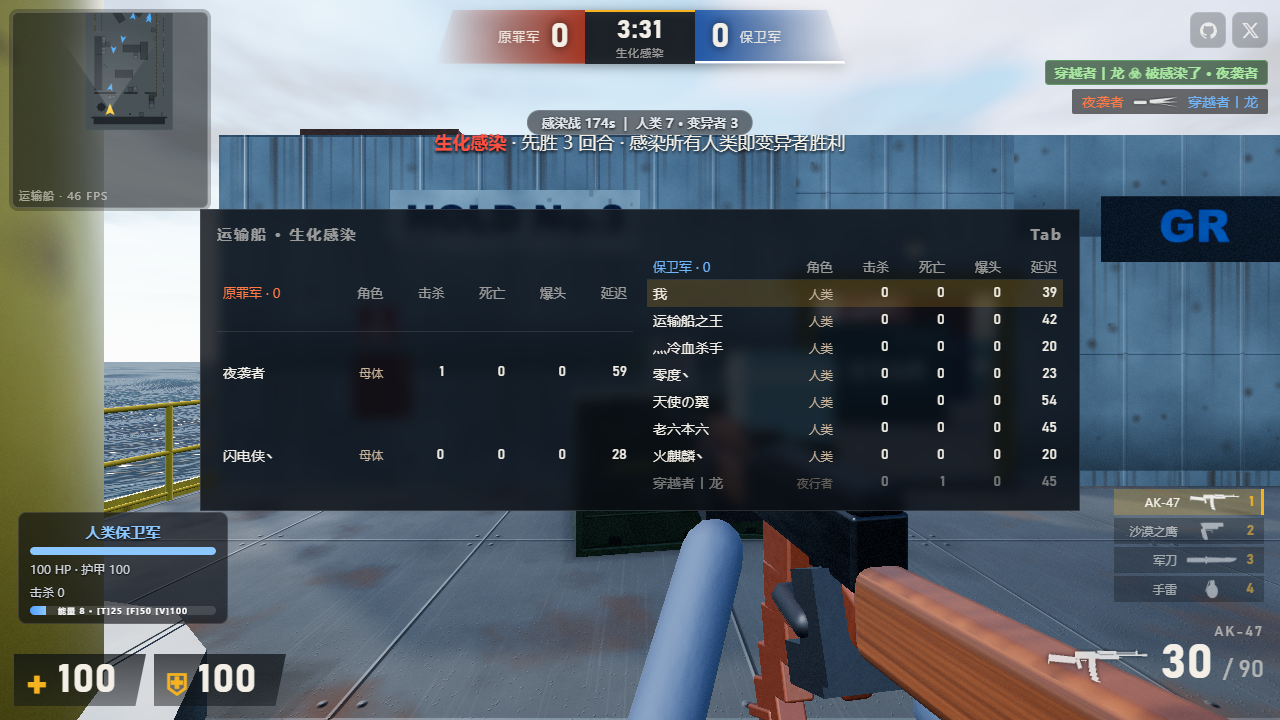
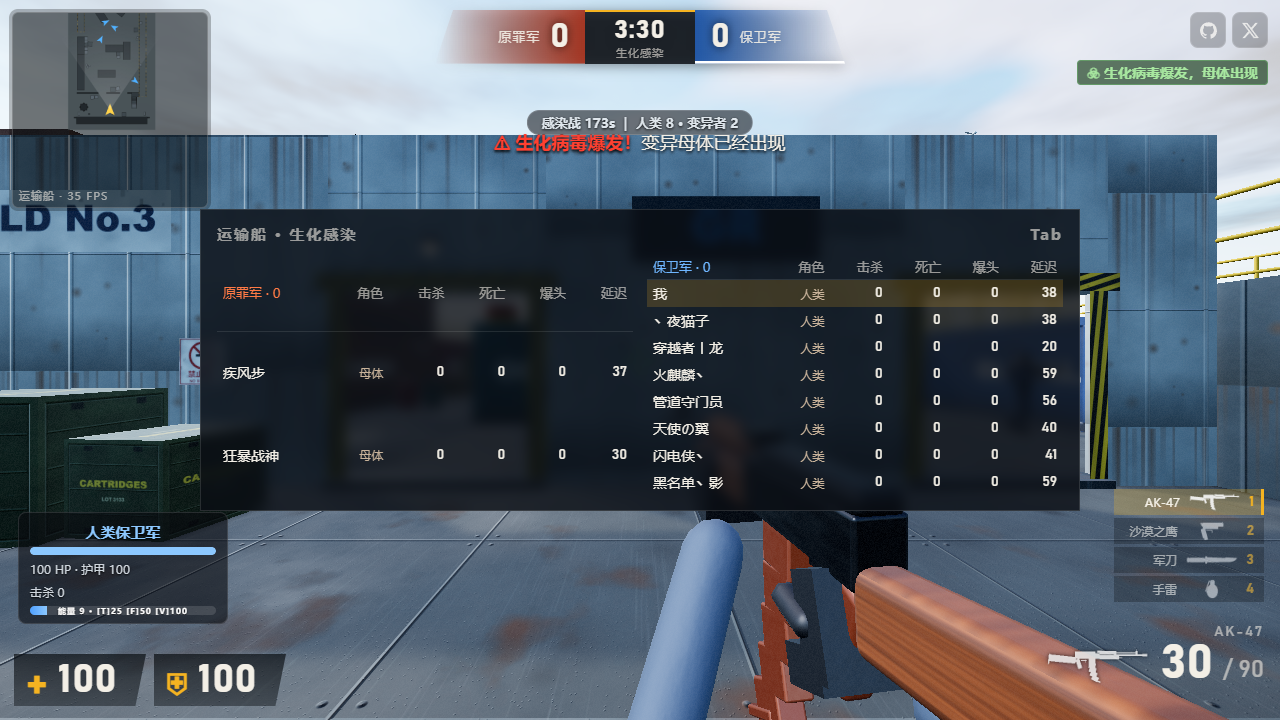
V93 感染模式精修：尸变演出（倒地冒黑雾1.2s→爬起，锁移速/禁出爪，母体与再变异豁免）+ 爆发全场警报播报；probe v67 新增10断言，全量回归通过

diff --git a/cf-transport-ship/src/woz/integrate.js b/cf-transport-ship/src/woz/integrate.js
@@ -741,6 +741,16 @@ export class WozManager {
       if (st.side === 'mutant' && st.alive && a.alive) st.hp = a.hp;
     }
     rules.tick(dt);
+    // V93 爆发播报（原作：购买期结束全场警报，母体现身）
+    if (rules.phase !== this._lastPhase) {
+      if (rules.phase === 'outbreak' && this.cat() === 'infection') {
+        g.hud.toast('<b style="color:#ff4030">⚠ 生化病毒爆发！</b>变异母体已经出现', 3);
+        g.hud.eventFeed('☣ 生化病毒爆发，母体出现', 'inf');
+        wozAudio.tide();
+        g.fx.shake = Math.max(g.fx.shake || 0, 0.4);
+      }
+      this._lastPhase = rules.phase;
+    }
     // 规则层治疗 → 引擎血量；同步移速与尸体状态
     for (let i = 0; i < rules.playerCount; i++) {
       const a = g.actors[i], st = rules.state(i);
@@ -757,6 +767,19 @@ export class WozManager {
         a.speedMul = rules.humanSpeedMultiplier(i);
       }
       if (a.alive && a.staggerT > 0) a.speedMul = (a.speedMul || 1) * 0.45; // 命中暂缓减速
+      // V93 尸变演出推进：转化期间锁移动；结束时爬起（复位动画+职业外观+低吼+黑雾爆散）
+      if (a.morphT > 0) {
+        a.morphT -= dt;
+        a.speedMul = 0;
+        if (Math.random() < 2.5 * dt) this.morphFog(a, 1);
+        if (a.morphT <= 0) {
+          a.morphT = 0;
+          if (!a.isPlayer) { a.soldier.reset(); a.soldier.setWeapon('claw'); }
+          this.applyClassVisual(a);
+          wozAudio.growl(a.isPlayer ? null : a.pos.clone());
+          this.morphFog(a, 6);
+        }
+      }
     }
     // V86 低血心跳：玩家 HP<30 动态开启心跳音（离开低血自动关闭）
     {
@@ -1564,6 +1587,8 @@ export class WozManager {
     }
     if (this.pendingConvert.has(a.id)) {
       this.pendingConvert.delete(a.id);
+      // V93 尸变演出：真实对局中战斗期的首次感染走此路径 → 标记起身后进入倒地→爬起演出
+      if (!st.isMother && st.rebirths === 0 && rules.phase === 'battle') a._morphRise = true;
       this.convertNow(a, true); // 原地变身（对齐原作：感染后在原地转化，不去复活点）
       return;
     }
@@ -1616,7 +1641,23 @@ export class WozManager {
       wozAudio.convert(a.pos.clone());
     } else wozAudio.convert(a.pos.clone());
     if ((a instanceof Bot) && !a.isZombie) toZombieAI(a);
-    wozAudio.growl(a.isPlayer ? null : a.pos.clone());
+    // V93 尸变演出（原作标志性瞬间）：战斗中被感染的子体不即时站起——保持倒地姿态
+    // 冒黑雾 1.2s 后爬起。母体（爆发落地）/再变异（复仇即时重生）不走此流程。
+    if (a._morphRise) {
+      a._morphRise = false;
+      a.morphT = WOZ.morphDuration;
+      if (!a.isPlayer) a.soldier.die(0, 1, false);
+      this.morphFog(a, 10);
+      if (a.isPlayer) g.hud.toast('<b style="color:#ff5040">尸变中…</b>病毒正在重塑你的身体', WOZ.morphDuration);
+    } else wozAudio.growl(a.isPlayer ? null : a.pos.clone());
+  }
+
+  // V93 尸变黑雾：感染者躯体周围升腾的暗色病毒雾
+  morphFog(a, n) {
+    const g = this.g;
+    for (let i = 0; i < n; i++) {
+      g.fx.smoke.emit({ x: a.pos.x + (Math.random() - 0.5) * 0.8, y: a.pos.y + 0.15 + Math.random() * 1.1, z: a.pos.z + (Math.random() - 0.5) * 0.8, vx: 0, vy: 0.5 + Math.random() * 0.4, vz: 0, life: 0, max: 1.2 + Math.random() * 0.5, s0: 0.12, s1: 0.5, r: 0.08, g: 0.08, b: 0.1, a0: 0.55, a1: 0, grav: -0.2, drag: 1.2 });
+    }
   }
 
   pickSpawn(team) {

diff --git a/cf-transport-ship/src/woz/config.js b/cf-transport-ship/src/woz/config.js
@@ -110,6 +110,7 @@ export const WOZ = {
   sorrowFrenzyHp: 300,      // 末分钟狂潮版血量（HP 低）
   sorrowFrenzyCount: 4,     // 狂潮只数
   disguiseReveal: 8,        // 混入伪装（V55）：人类 8m 内识破附身爬行者
+  morphDuration: 1.2,       // V93 尸变演出：战斗中被感染 → 倒地冒黑雾 → 爬起为变异者
   disguiseBreak: 3,         // 出爪后暴露时长
   frostHp: 450,             // 寒霜行者（V56 末日求生）：冰霜系 AI 特感
   frostChill: 0.72,         // 命中减速倍率

diff --git a/cf-transport-ship/src/game.js b/cf-transport-ship/src/game.js
@@ -560,6 +560,7 @@ export class Game {
     audio.playKnife('light', 'flesh', a.isPlayer ? null : eye);
   }
   melee(a, heavy) {
+    if (a.morphT > 0) return; // V93 尸变中不可出爪
     this.woz?.breakDisguise?.(a); // V55 伪装：出爪暴露
     const d = WEAPONS[a.weapon?.id] || WEAPONS.knife;
     const range = heavy ? d.rangeHeavy : d.rangeLight;

diff --git a/cf-transport-ship/WOZ_RESEARCH.md b/cf-transport-ship/WOZ_RESEARCH.md
@@ -124,3 +124,15 @@
 
 ### V73-V92 计划
 V73 猎食者视觉对齐（嗜血红皮+手持斧）；V74 疾冲残影拖尾（afterimage 克隆衰减）；V75 自爆地面红圈预警+滴滴声；V76 人类 T/F/V 技能特效（金光/金框/红边脉动）；V77 曳光弹接入开火+按武器分色；V78 后坐力曲线精调（AK/M4/SMG/狙）+准星 bloom 随 spread；V79 命中材质反馈分级（金属火花/砖灰/木屑+音调）；V80 手雷弹跳滚动+落地音+HE 爆闪；V81 燃烧瓶玻璃碎裂+着火者身上火苗；V82 冻结弹冰霜屏幕+冰晶；V83 毒气毒液体积烟雾+中毒绿边；V84 震撼弹白屏渐变曲线+耳鸣+黏性滴滴红灯；V85 近战挥砍弧光+命中停顿；V86 狙击开镜呼吸+栓动节奏；V87 变异者死亡消散+受击血雾分级；V88 空间音效+低血心跳；V89 粒子性能分级；V90 手感综合模拟；V91 文档收尾；V92 全量回归。
+
+## 九、逐模式精修迭代（2026-09-26 起，V93+，用户指令：每版只做一个模式）
+
+### 新来源（用户提供，2026-09-26 抓取成功）
+- 17173 2013-01-15《生化复仇解密》：复仇模式=人类获得特殊能量化身"复仇者"近身较量；**双阵营升级进化**——人类随时间和击杀获得速度/弹药/威力/必杀技，变异者获得防御/攻击/再次变异/特殊进化（视觉冲击力）；**人类最后的幸存者进化为复仇者**：手持极具杀伤力的电锯+超越人类体能极限的防御力，被包围时可原地旋转扫除一切近身敌人。
+- 17173 2013-01-14《生化对抗解密》：对抗模式特色地图**死亡城市**（浓雾+废弃城市街道）；人类=攻击方要尽可能多占领战术据点，变异者=防守方阻止；报废车辆/散落集装箱路障做掩体，变异者借雾接近；**占领进度越深，越来越多的变异者源源不断突破浓雾封锁进攻**（增援与占点进度挂钩）。
+
+### V93 感染模式精修（2026-09-26）
+- **尸变演出**（原作标志性瞬间）：战斗中被感染的子体不再即时站起——保持倒地姿态，躯体冒黑雾 1.2s（morphDuration），期间移速锁 0、出爪被拦截；结束后复位动画+职业外观+低吼+黑雾爆散爬起。母体（爆发落地）与复仇再变异（即时重生）不走此流程。实现：`a.morphT` 状态 + convertNow 启动 + 同步循环推进 + game.melee 顶部拦截 + morphFog 粒子。
+- **爆发播报**：感染模式购买期结束进入 outbreak 时全场警报——大字 toast「⚠ 生化病毒爆发！变异母体已经出现」+ 事件流 + tide 音效 + 震屏（_lastPhase 相变检测）。
+- 回归：rules 83 + e2e 41 + smoke + probes v1~v66 不变，新增 v67（10 断言：morphT 起止/移速锁定/出爪拦截/持爪/阵营/母体豁免/爆发播报）。
+- 已核对原作细节并维持现状：感染原地转化（不去复活点）、E 键附身等效为直接转化+职业面板、吞噬进化链、进化阶段外观成长。

diff --git a/cf-transport-ship/WOZ_README.md b/cf-transport-ship/WOZ_README.md
@@ -264,3 +264,5 @@ scripts/          # smoke / woz-e2e / woz-e2e2 / woz-balance 四套自动化
 技能机制（调研对齐原作）：**感染后技能立即可用，使用后进入各自独立冷却**——疾冲 15s / 致盲尖啸 25s / 投掷斧头 20s / 缠绕 6s（原作"可随时使用"）/ 自爆 30s / 狂暴咆哮 30s；受伤与吞噬加速回充；技能键 **G/F**。爬行者无技能槽（技能环显示"躯体坚韧"被动）。
 
 武器总量（V60 后）：**26 主武器（新增温彻斯特杠杆步枪/龙息霰弹）** + 4 副武器 + 5 近战 + **7 投掷（新增毒液手雷）** = **42 件**。
+
+| V93 | **感染模式精修**：尸变演出（倒地冒黑雾 1.2s→爬起，期间锁移速/禁出爪；母体与再变异豁免）+ 爆发全场警报播报（toast+音效+震屏）。probe v67 10 断言 |
